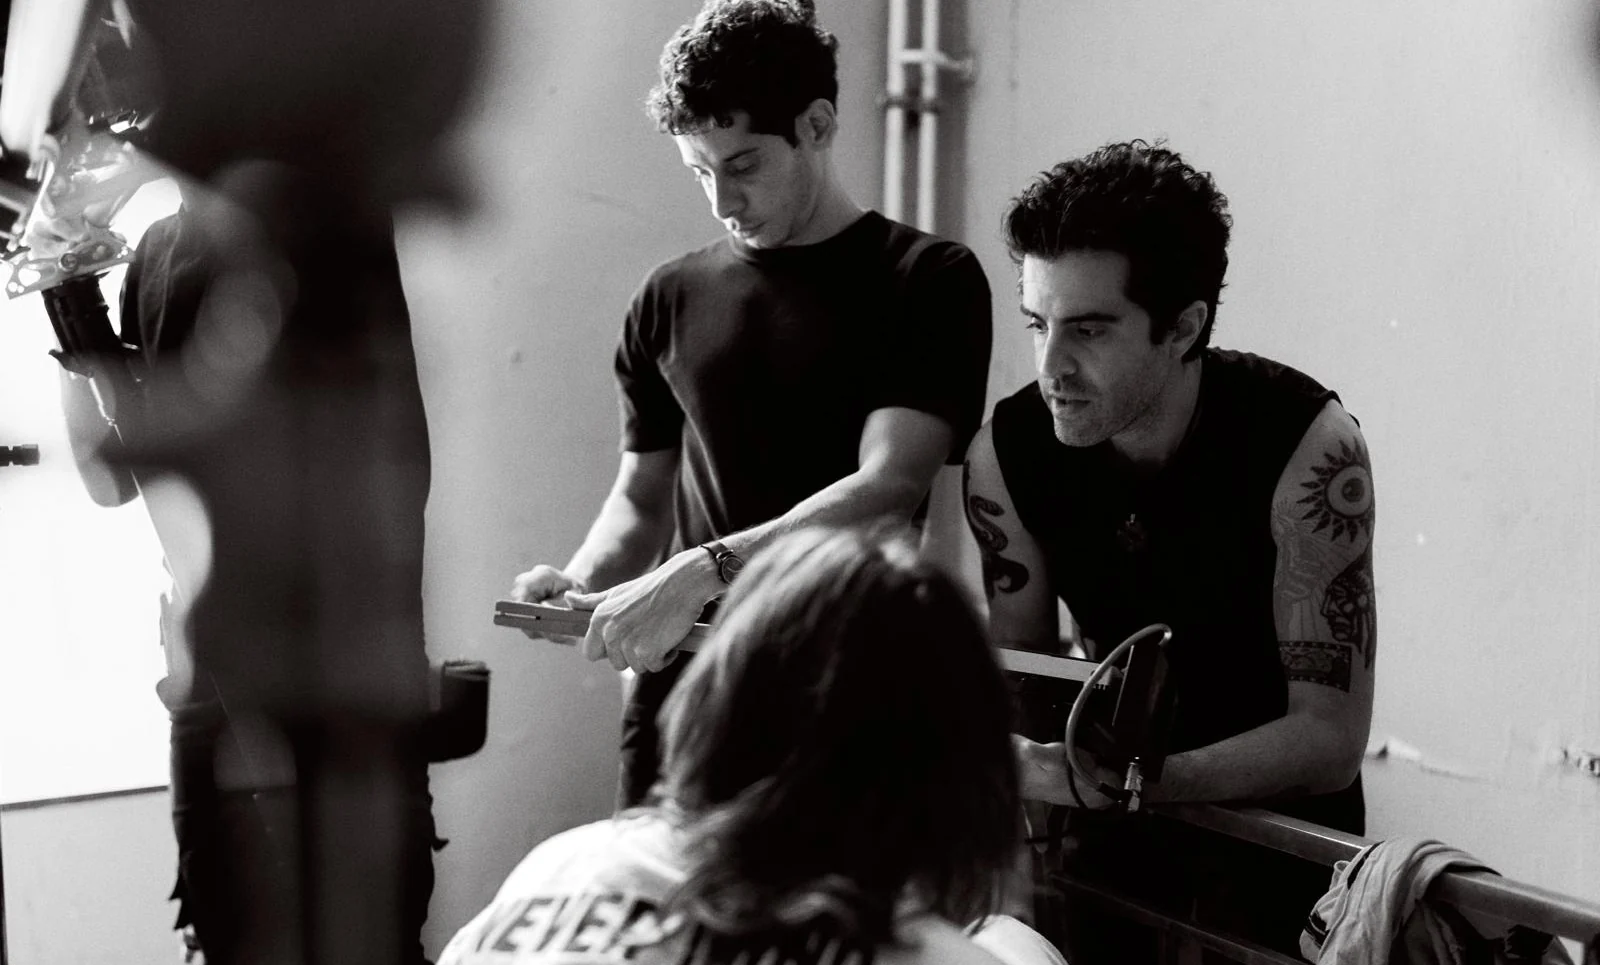
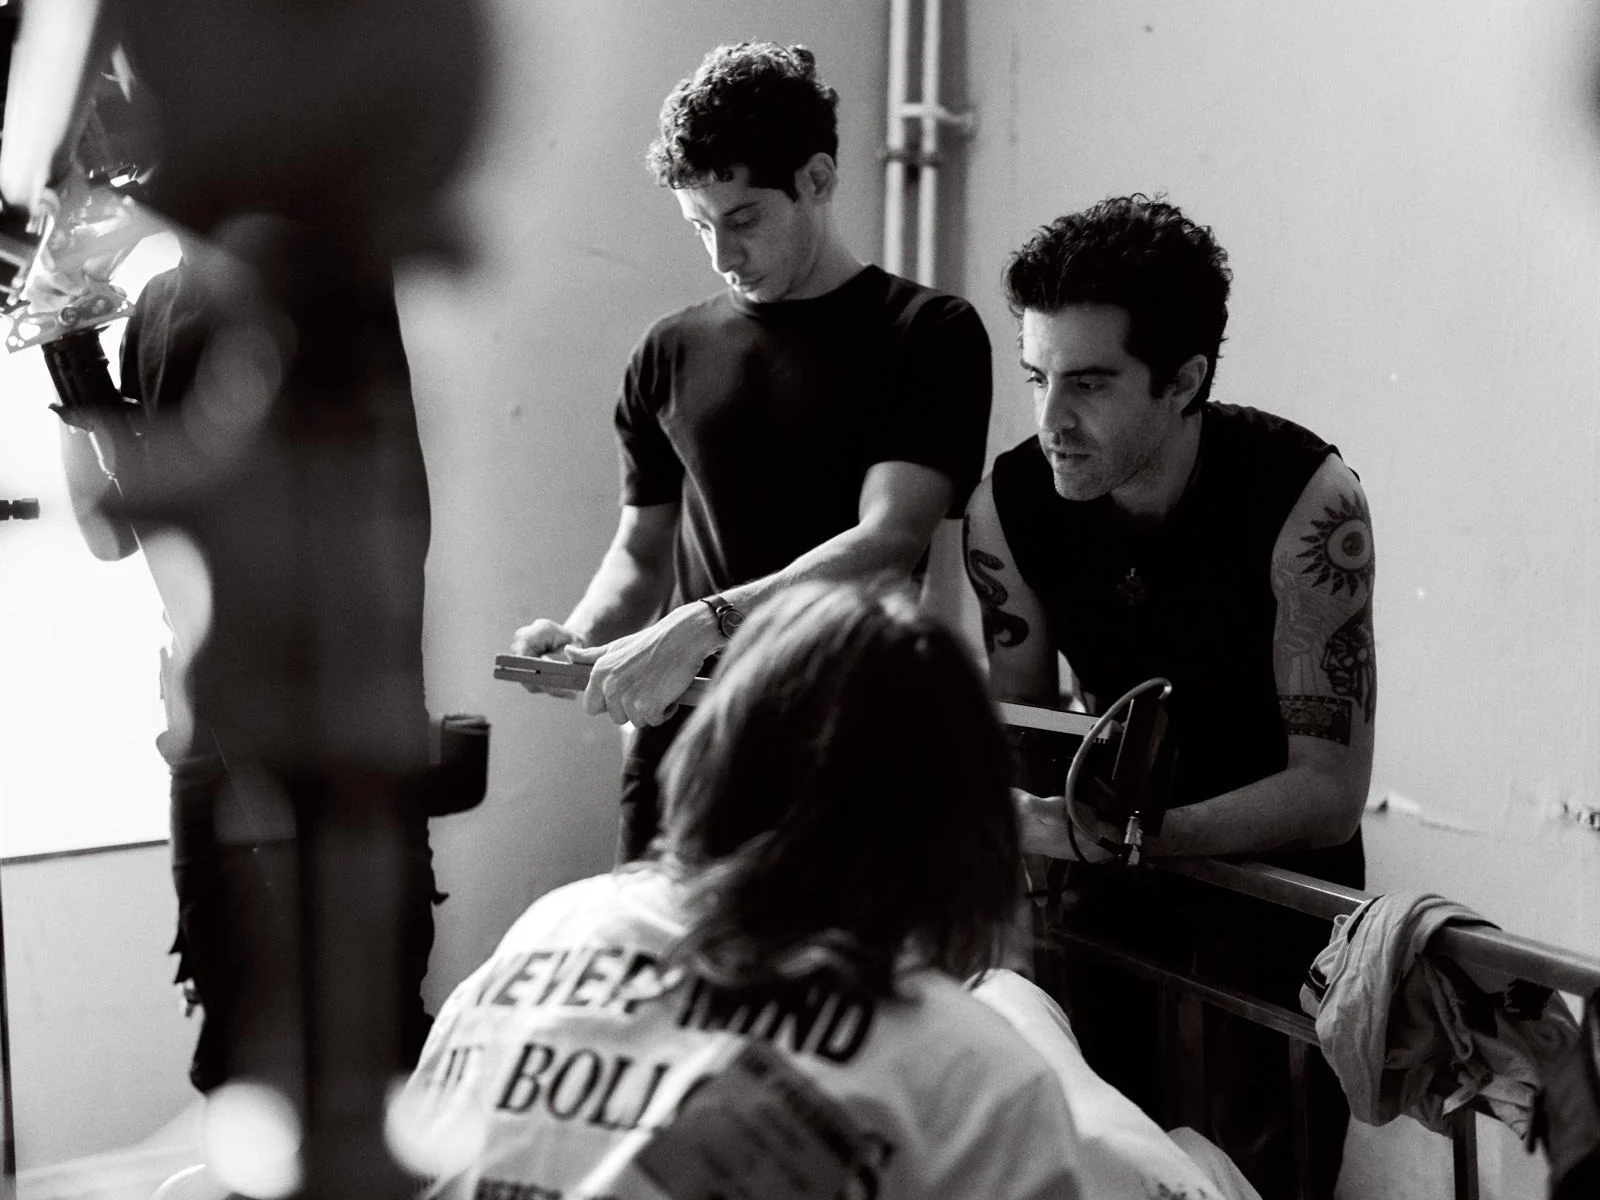
Opening large window: more of the photo, a little narrower, centred and always on screen
Claude-Session: https://claude.ai/code/session_017pet1xdoD4qsmDKCnpEuuB

diff --git a/styles/globals.css b/styles/globals.css
@@ -504,3 +504,15 @@ html.film .scene--reel .roll-box { top: calc(var(--box-y) + 22svh); height: calc
   .scene--reel .roll-text .festival { max-width: none; white-space: nowrap; }
   .scene--reel .roll-text p { white-space: nowrap; }
 }
+/* opening windows never run off screen: the width also follows the picture's shape against the screen height (D-91) */
+.frame:not(.frame--corner) > .window { padding-block: 0; }
+.frame:not(.frame--corner) > .window--large { width: min(62%, calc(66svh * var(--ar, 1.66))); }
+.frame:not(.frame--corner) > .window--small { width: min(34%, calc(52svh * var(--ar, 1.37))); }
+@media (max-width: 809px) {
+  .frame:not(.frame--corner) > .window--large { width: min(86%, calc(56svh * var(--ar, 1.66))); }
+  .frame:not(.frame--corner) > .window--small { width: min(60%, calc(44svh * var(--ar, 1.37))); }
+}
+@media (max-height: 500px) and (orientation: landscape) {
+  .frame:not(.frame--corner) > .window--large { width: min(56vw, calc(70svh * var(--ar, 1.66))); }
+  .frame:not(.frame--corner) > .window--small { width: min(34vw, calc(64svh * var(--ar, 1.37))); }
+}

diff --git a/components/Picture.tsx b/components/Picture.tsx
@@ -82,7 +82,7 @@ export function Picture({ shot, priority = false, sizes }: { shot: Shot; priorit
 export function Window({ shot, sizes }: { shot: Shot; sizes?: string }) {
   const size = shot.composition === "small-window" ? "small" : "large";
   return (
-    <div className={`window window--${size} window--${shot.side ?? "center"}`}>
+    <div className={`window window--${size} window--${shot.side ?? "center"}`} style={{ ["--ar" as string]: (shot.width / shot.height).toFixed(4) }}>
       <Picture shot={shot} sizes={sizes} />
     </div>
   );

diff --git a/DECISIONS.md b/DECISIONS.md
@@ -92,3 +92,4 @@
 | D-88 | Scroll cue: a viewfinder scale (small ticks all the way down the thin line), the rolling light carries a short crossbar, and "SCROLL DOWN" (translated) sits beneath. It shows only at the very top of the page (first 4 px) and comes back whenever the visitor returns to the top; hidden while playing | Adam's direction (replaces "gone for good", D-85) |
 | D-89 | Festival roll inside the reels runs wide (up to 1080px, inside the reel container): every festival line stays on one line and the dot leaders run longer. Phones keep the narrower wrap so long names stay readable | Adam's direction |
 | D-90 | Opening windows use the behind-the-scenes photos (image01 large right, image02 small left), cropped to the old window shapes (5:3 and 4:3) so the layout is unchanged and nothing runs off screen, alt "On set, behind the scenes"; reel 1 key image replaced (clapperboard by the water). Email corrected to njs@disziplin.org | Adam delivered / corrected, 19 Nov |
+| D-91 | Opening large window shows nearly the whole photo (4:3), centred; window widths also follow the picture's shape against the screen height, so a taller picture gets a narrower window instead of running off screen | Adam: "a bit less wide if that includes more of the composition" |
